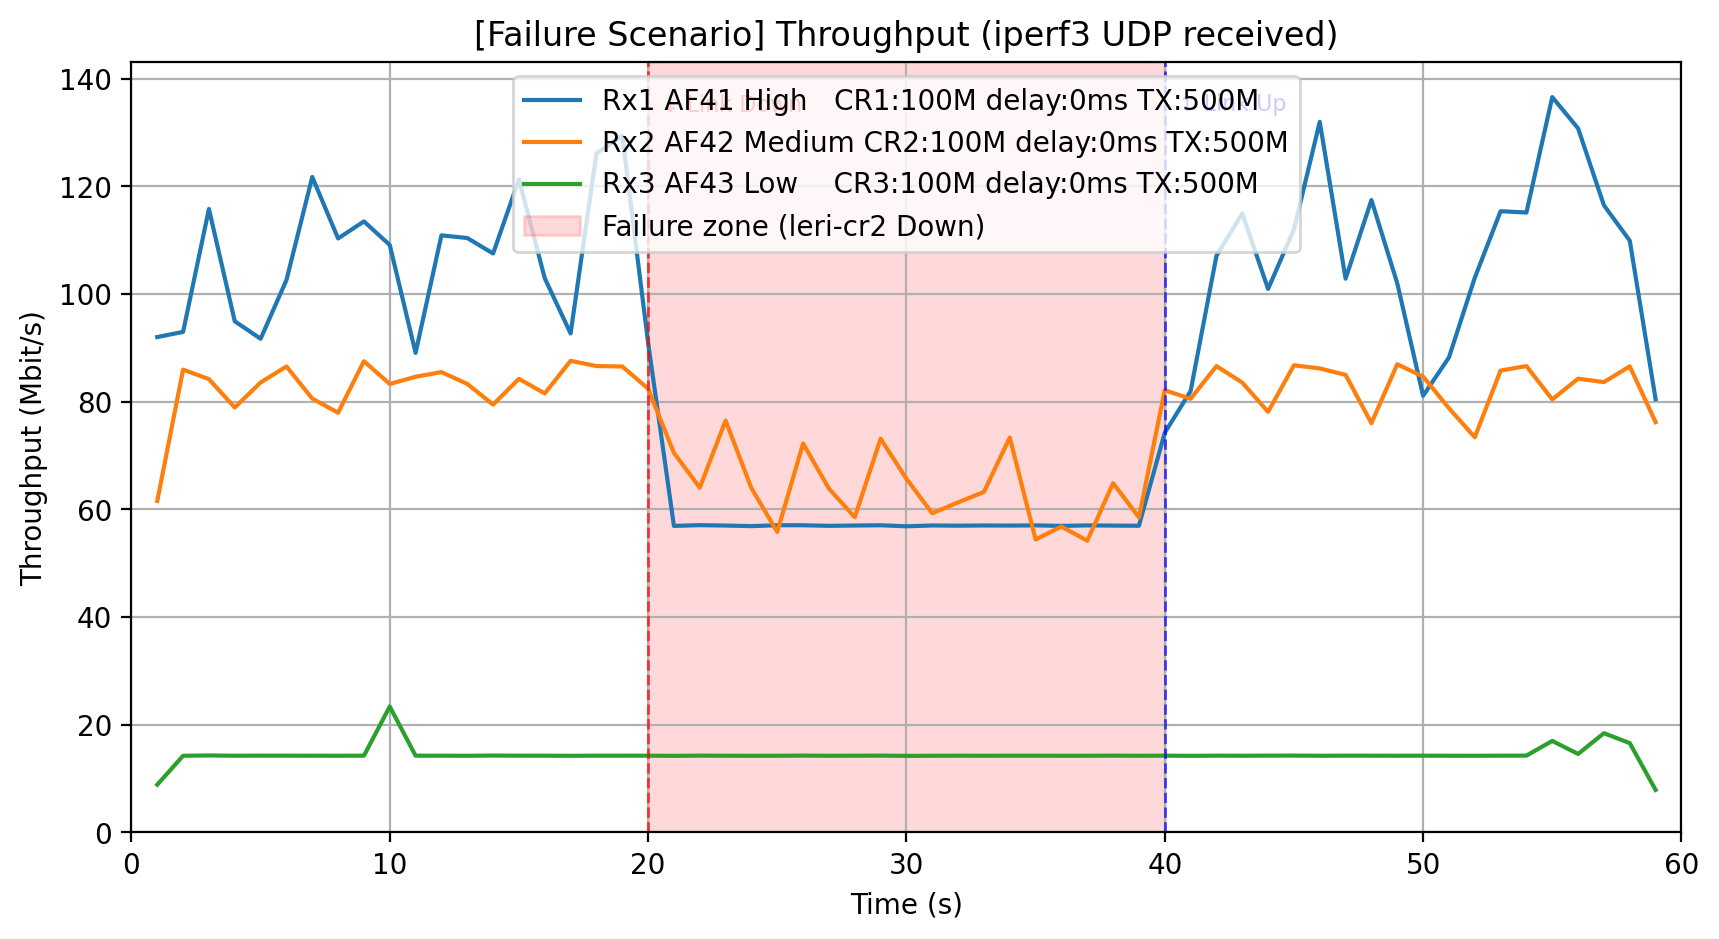
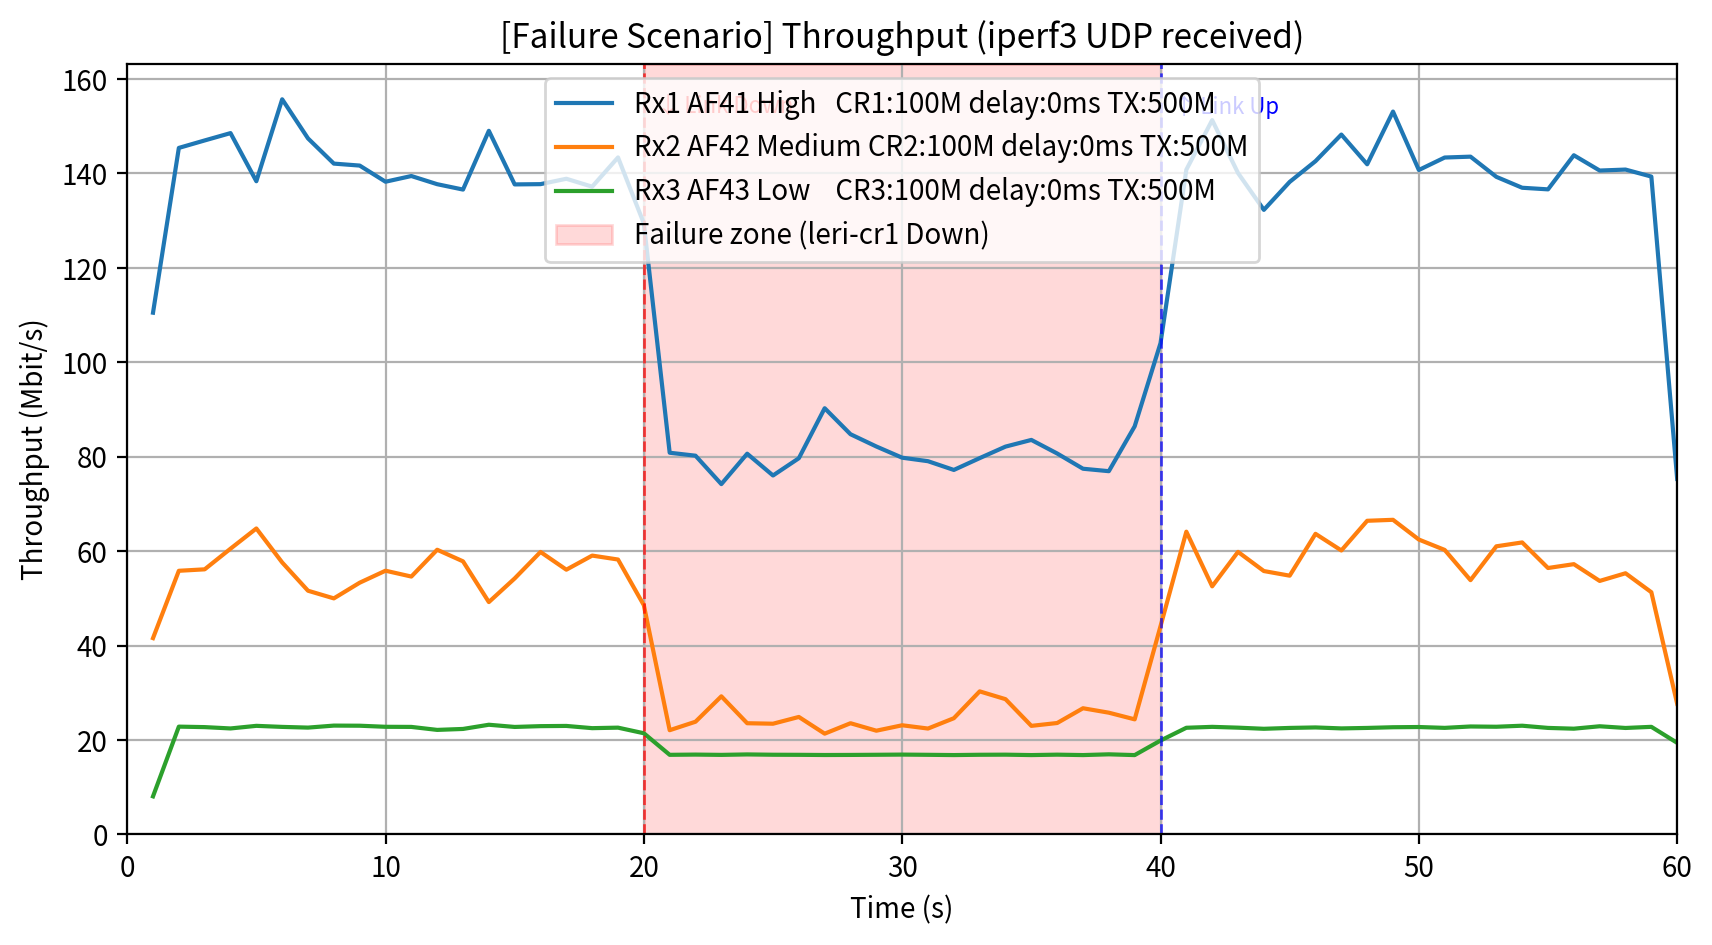
fix: failure vs failure_rsvp now show clear throughput difference
- measure.sh: add ignore_routes_with_linkdown=1 before both failure
  scenarios so kernel does not auto-reroute when leri-cr1 goes down.
  failure: 1/3 traffic dropped (leri-cr1 nexthop kept, IF down).
  failure_rsvp: rsvp_monitor detects within 1s → ECMP rebuilt to CR2+CR3.
- measure.sh: run plot script as SUDO_USER to avoid root-owned PNG files;
  chown results dir after measurement.
- measure.sh: auto-generate compare_all_scenarios.png when all 3 CSVs exist.
- plot_rx.py: fix label "leri-cr2 Down" → "leri-cr1 Down".
- plot_rx.py: fix POLICE annotation timing (21s/41s matching real rsvp_monitor 1s detection).
- plot_rx.py: fix compare_scenarios path comparison (use .resolve()).
- plot_rx.py: replace ✗ glyph with ASCII x to avoid font warning.
- results: regenerate all graphs from latest measurements.

diff --git a/results/plot_rx.py b/results/plot_rx.py
@@ -57,9 +57,9 @@ FAILURE_START = 20   # 障害開始 (s)
 FAILURE_END   = 40   # 障害終了 (s)
 
 # RSVP-TE ingress police 適用タイミング (failure_rsvp のみ)
-# DOWN後 ~10s で 2-link レートに更新、UP後 ~10s で 3-link に復旧
-POLICE_DOWN = 30   # 2-link police 適用 (s)
-POLICE_UP   = 50   # 3-link police 復旧 (s)
+# rsvp_monitor は 1s ポーリングで検知→即時 ECMP/police 更新
+POLICE_DOWN = 21   # 2-link police 適用: 障害検知 ~1s後
+POLICE_UP   = 41   # 3-link police 復旧: 復旧検知 ~1s後
 
 # 画像のDPI
 FIG_DPI = 200
@@ -152,7 +152,7 @@ def add_failure_zone(ax, x_max, rsvp=False):
         return
     rsvp_note = " + RSVP-TE reroute" if rsvp else ""
     ax.axvspan(FAILURE_START, FAILURE_END,
-               alpha=0.15, color="red", label=f"Failure zone (leri-cr2 Down{rsvp_note})")
+               alpha=0.15, color="red", label=f"Failure zone (leri-cr1 Down{rsvp_note})")
     ax.axvline(FAILURE_START, color="red", linestyle="--", linewidth=1.0, alpha=0.7)
     ax.axvline(FAILURE_END,   color="blue", linestyle="--", linewidth=1.0, alpha=0.7)
     y_top = ax.get_ylim()[1]
@@ -403,7 +403,7 @@ def plot_packet_loss(outdir: Path, scenario_title: str):
                     transform=ax.transAxes, ha="center", va="top",
                     fontsize=8, color="green", fontweight="bold")
         elif any(v > 0 for v in vals):
-            ax.text(0.5, 0.97, "✗ Priority inversion",
+            ax.text(0.5, 0.97, "x Priority inversion",
                     transform=ax.transAxes, ha="center", va="top",
                     fontsize=8, color="red", fontweight="bold")
 
@@ -433,7 +433,7 @@ def plot_packet_loss(outdir: Path, scenario_title: str):
                     transform=ax.transAxes, ha="center", va="top",
                     fontsize=8, color="green", fontweight="bold")
         elif any(v > 0 for v in vals):
-            ax.text(0.5, 0.97, "✗ Priority inversion",
+            ax.text(0.5, 0.97, "x Priority inversion",
                     transform=ax.transAxes, ha="center", va="top",
                     fontsize=8, color="red", fontweight="bold")
 
@@ -499,5 +499,6 @@ if __name__ == "__main__":
         outdir = Path(__file__).resolve().parent
     main(outdir)
     # 引数がベースディレクトリ (results/) または比較モードのとき
-    if outdir == Path(__file__).resolve().parent or sys.argv[-1] == "--compare":
-        compare_scenarios(Path(__file__).resolve().parent)
+    base = Path(__file__).resolve().parent
+    if outdir.resolve() == base or sys.argv[-1] == "--compare":
+        compare_scenarios(base)
